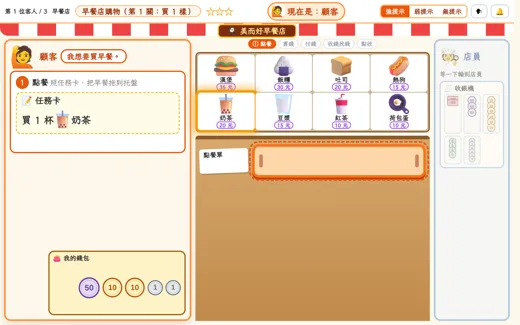
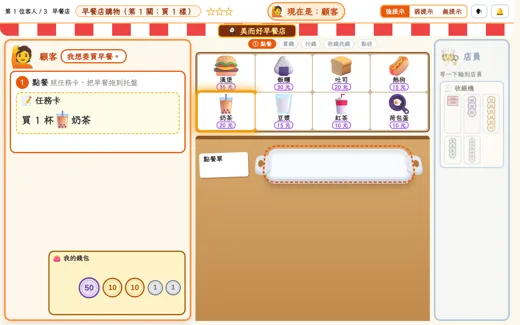
早餐店遊戲：托盤選丙＋丁、手加前臂（規劃文件＋縮圖）
Claude-Session: https://claude.ai/code/session_011NSASYBWvdDhJFsSK2QUnf

Changed region(s): [[0.3692, 0.4308, 0.8308, 0.5846]]

diff --git a/docs/早餐店購物遊戲_規劃.md b/docs/早餐店購物遊戲_規劃.md
@@ -25,7 +25,7 @@
 | 使用者回饋第二輪（2026-11-09） | ①遊戲不一定在平板上玩：換人畫面不提平板、換人不出聲 ②拿掉 💡 提示框，步驟標題冒號後的說明變淡 ③任務卡行距加大 ④錢包放顧客區右下角，盤子上的錢可以點回或「全部拿回」 |
 | 流程改版（2026-11-09） | **拿掉「店員結帳＋兩人核對」**：顧客自己算一共多少、系統判斷引導 → 算對後交易區浮現 → 顧客付錢 → 換店員：店員的手收走錢、念「收您＃元」，剛好就收據，要找才算找錢、拿錢 → 換顧客點收。換人只剩 2 次。**第 1 關錢包的零錢一定湊得出剛好的金額**，一半機會多一張大錢（付大錢就要找錢）。收銀機大小固定，錢被拿走不縮 |
 | 找錢用直式（2026-11-09） | 店員找錢時開「算一算」視窗，**跑的就是互動學習單「兩位數加減直式計算」同一份程式**（操作、提示與互動頁完全相同，強／弱／無跟著遊戲），算完答案自動填回。互動頁直式只支援兩位數減兩位數，所以**第 1 關菜單不放茶葉蛋（8 元）、錢包總額 ≤ 99 元**（使用者選「遊戲配合」；要做 100 元找錢時再擴充互動頁直式）。第 1 關算錢只買 1 樣，不開直式；第 2、3 關的加法、乘法之後用同樣方式接 |
-| 使用者回饋第三輪（2026-11-09） | 錢包大小固定（錢多錢少都一樣）；拿掉顧客付錢的手部動畫；找錢動畫改成「手抓著錢從上方放到盤子上 → 往前推 → 手往上、往後離開」；托盤樣式出模擬圖 `mock-breakfast-shop/G_托盤樣式.png`（甲木頭／乙速食店塑膠＋紙墊／丙有耳朵圓角／丁斜看立體），**待選** |
+| 使用者回饋第三輪（2026-11-09） | 錢包大小固定（錢多錢少都一樣）；拿掉顧客付錢的手部動畫；找錢動畫改成「手抓著錢從上方放到盤子上 → 往前推 → 手往上、往後離開」；托盤樣式出模擬圖 `mock-breakfast-shop/G_托盤樣式.png`（甲木頭／乙速食店塑膠＋紙墊／丙有耳朵圓角／丁斜看立體）→ **使用者選丙＋丁**（有耳朵的圓角托盤、斜看立體）；店員的手加前臂與袖子 |
 | 付太多 | 付的錢比總價多也算對，照樣找錢；強提示多問「有沒有剛好的付法？」 |
 | 菜單（2026-11-08 定案） | 蛋餅 25（份）、漢堡 35（個）、三明治 30（個）、鐵板麵 45（份）、飯糰 30（個）、吐司 20（片）、熱狗 15（根）、奶茶 20、豆漿 15、紅茶 10（杯）、茶葉蛋 8（顆）、荷包蛋 10（個）。開放圖示沒有蘿蔔糕、薯餅，改成飯糰、熱狗，並加吐司、荷包蛋。茶葉蛋 8 元低於圖庫 d2 下限 10，刻意保留（要用到 1、5 元硬幣），管理端改價會被驗證擋 |
 
